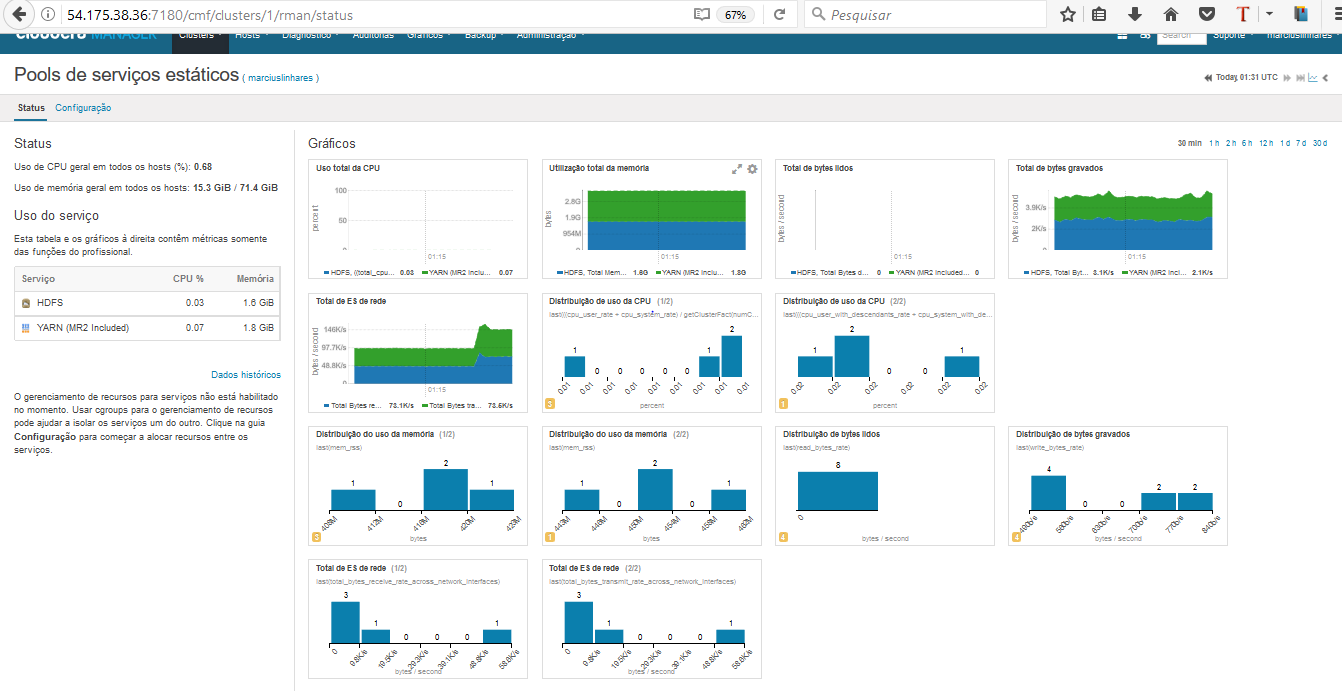
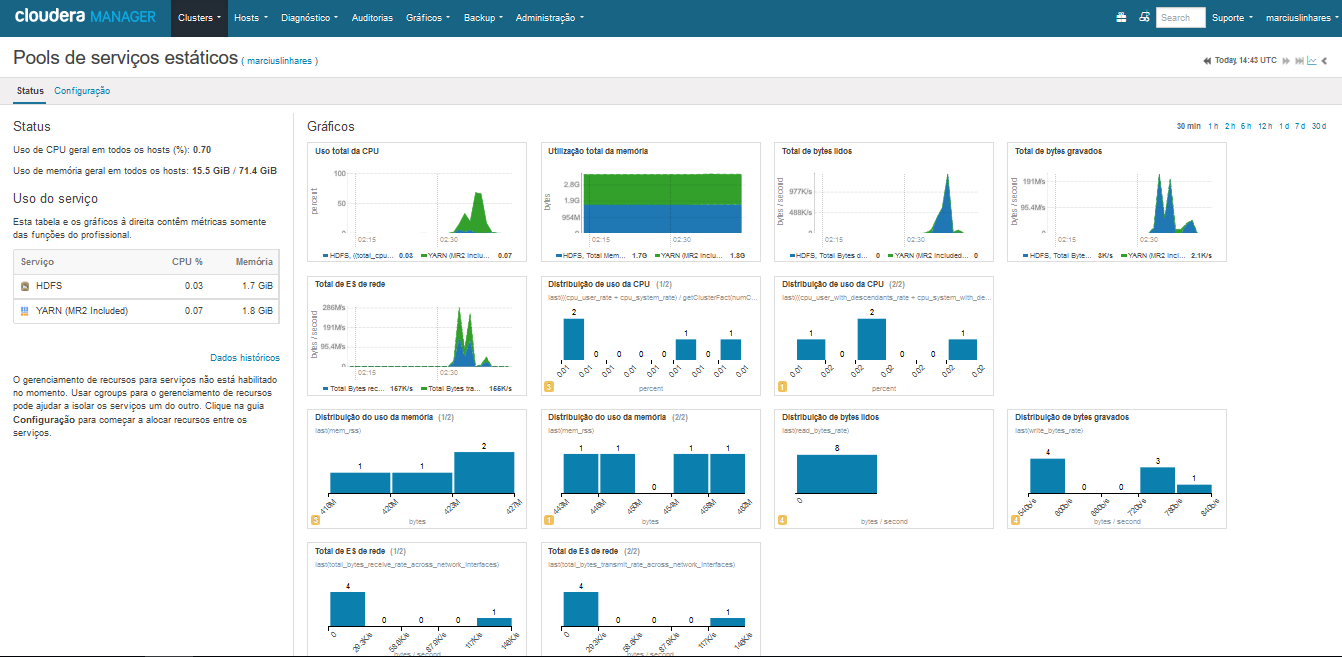
11:58 05-04-17

diff --git a/SEBC-master/resources/labs/3_YARNtest.sh.md b/SEBC-master/resources/labs/3_YARNtest.sh.md
@@ -1,0 +1,49 @@
+#!/bin/sh
+# Confirm the path values given below correspond to your installation
+
+MR=/opt/cloudera/parcels/CDH-5.10.1-1.cdh5.10.1.p0.10/jars
+HADOOP=/opt/cloudera/parcels/CDH/bin
+
+# Mark start of the loop
+echo Testing loop started on `date`
+
+# Mapper containers
+for i in 4    
+do
+   # Reducer containers
+   for j in 1 
+   do                 
+      # Container memory
+      for k in 128 512 
+      do                         
+         # Set mapper JVM heap 
+         MAP_MB=`echo "($k*0.8)/1" | bc` 
+		 echo Mapper JVM: $MAP_MB
+
+         # Set reducer JVM heap 
+         RED_MB=`echo "($k*0.8)/1" | bc` 
+		 echo Reducer JVM: $RED_MB
+
+        time ${HADOOP}/hadoop jar ${MR}/hadoop-examples.jar teragen \
+                     -Dmapreduce.job.maps=$i \
+                     -Dmapreduce.map.memory.mb=$k \
+                     -Dmapreduce.map.java.opts.max.heap=$MAP_MB \
+                     51200000 /results/tg-10GB-${i}-${j}-${k} 1>tera_${i}_${j}_${k}.out 2>tera_${i}_${j}_${k}.err                       
+
+       time ${HADOOP}/hadoop jar $MR/hadoop-examples.jar terasort \
+                     -Dmapreduce.job.maps=$i \
+                     -Dmapreduce.job.reduces=$j \
+                     -Dmapreduce.map.memory.mb=$k \
+                     -Dmapreduce.map.java.opts.max.heap=$MAP_MB \
+                     -Dmapreduce.reduce.memory.mb=$k \
+                     -Dmapreduce.reduce.java.opts.max.heap=$RED_MB \
+	             /results/tg-10GB-${i}-${j}-${k}  \
+                     /results/ts-10GB-${i}-${j}-${k} 1>>tera_${i}_${j}_${k}.out 2>>tera_${i}_${j}_${k}.err                         
+
+        $HADOOP/hadoop fs -rm -r -skipTrash /results/tg-10GB-${i}-${j}-${k}                         
+        $HADOOP/hadoop fs -rm -r -skipTrash /results/ts-10GB-${i}-${j}-${k}                 
+      done
+   done
+done
+
+echo Testing loop ended on `date`

diff --git a/SEBC-master/resources/labs/4_YARN_results.md b/SEBC-master/resources/labs/4_YARN_results.md
@@ -1,0 +1,32 @@
+
+# Result 
+
+```
+Mapper JVM: 102
+Reducer JVM: 102
+
+real    1m2.592s
+user    0m6.188s
+sys     0m0.307s
+
+real    0m46.040s
+user    0m8.026s
+sys     0m0.370s
+Deleted /results/tg-10GB-4-1-128
+Deleted /results/ts-10GB-4-1-128
+Mapper JVM: 409
+Reducer JVM: 409
+
+real    0m52.941s
+user    0m6.675s
+sys     0m0.294s
+
+real    4m5.647s
+user    0m9.170s
+sys     0m0.398s
+Deleted /results/tg-10GB-4-1-512
+Deleted /results/ts-10GB-4-1-512
+[hdfs@ip-172-31-26-86 ~]$
+[hdfs@ip-172-31-26-86 ~]$ echo Testing loop ended on `date`
+
+```
